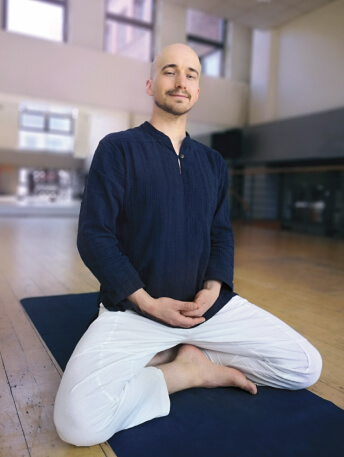
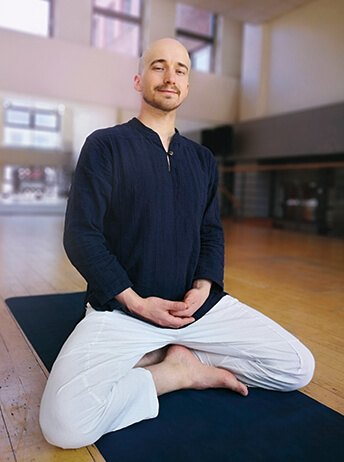
added responsive images / updated Imprint

diff --git a/index.html b/index.html
@@ -10,7 +10,7 @@
 		<div class="wrapper">
 			<h1>Daniel Krott</h1>
 			<h2>Personal Yoga Trainer</h2>
-			<img class="img-daniel" src="./images/dk.jpg" alt="Mann im Lotussitz lächelt in die Kamera" />
+			<img class="img-daniel" srcset="./images/dk.jpg, ./images/dk_2x.jpg 2x" src="./images/dk_2x.jpg" alt="Mann im Lotussitz lächelt in die Kamera" />
 			<h3>
 				Sie möchten gerne Yoga Unterricht nehmen, <br />
 				aber nicht in einer Gruppe üben?
@@ -24,15 +24,17 @@
 				<p><a href="mailto:daniel@definite-yoga.koeln">daniel@definite-yoga.koeln</a></p>
 				<div style="margin-top: 4px; font-weight: 400"><a href="./impressum.html">Impressum</a> | <a href="./datenschutz.html">Datenschutz</a></div>
 			</div>
-			<img class="img-el" src="./images/el.svg" alt="" />
+			<img class="img-el" src="./images/el.svg" alt="Sri Yantra" />
 		</div>
 		<!-- +++++++++++++++++++++++++++++++++++++++
     DESKTOP
     +++++++++++++++++++++++++++++++++++++++ -->
 
 		<div class="wrapper-desktop">
-			<img class="img-daniel" src="./images/dk.jpg" alt="Mann im Lotussitz lächelt in die Kamera" />
-			<img class="img-el" src="./images/el.svg" alt="" />
+			<!-- <img class="img-daniel" src="./images/dk.jpg" alt="Mann im Lotussitz lächelt in die Kamera" /> -->
+			<img class="img-daniel" srcset="./images/dk.jpg, ./images/dk_2x.jpg 2x" src="./images/dk_2x.jpg" alt="Mann im Lotussitz lächelt in die Kamera" />
+
+			<img class="img-el" src="./images/el.svg" alt="Sri Yantra" />
 			<div class="text">
 				<div class="head">
 					<h1>Daniel Krott</h1>

diff --git a/impressum.html b/impressum.html
@@ -10,12 +10,12 @@
 		<div class="wrapper-imprint">
 			<h1>Impressum</h1>
 			<p style="margin: 20px 0">Angaben gemäß § 5 TMG:</p>
-			<p>Daniel Krott</p>
+			<p style="font-size: 20px; font-weight: 600">Daniel Krott</p>
 			<p>Bernhardstraße 12</p>
 			<p>50968 Köln</p>
-			<p style="margin-top: 10px">0176 / 6486-7925</p>
-			<p>daniel@definite-yoga.koeln</p>
-			<a style="margin-top: 30px" href="javascript:history.back()">Zurück</a>
+			<p style="font-size: 16px; margin-top: 12px" style="margin-top: 10px">0176 / 6486-7925</p>
+			<a href="mailto:daniel@definite-yoga.koeln">daniel@definite-yoga.koeln</a>
+			<a style="margin-top: 30px" href="./index.html">Zurück</a>
 		</div>
 	</body>
 </html>

diff --git a/styles.css b/styles.css
@@ -68,6 +68,7 @@ p {
 	margin-top: 20px;
 	margin-bottom: 30px;
 	border-radius: 10%;
+	width: 344px;
 	box-shadow: 1.1px 0.9px 0.6px rgba(0, 0, 0, 0.022), 2.6px 2.1px 1.5px rgba(0, 0, 0, 0.032), 4.9px 4px 2.9px rgba(0, 0, 0, 0.04),
 		8.7px 7.1px 5.1px rgba(0, 0, 0, 0.048), 16.3px 13.4px 9.6px rgba(0, 0, 0, 0.058), 39px 32px 23px rgba(0, 0, 0, 0.08);
 }

diff --git a/datenschutz.html b/datenschutz.html
@@ -240,7 +240,7 @@
 						unber&uuml;hrt.
 					</p>
 					<p>Quelle: <a class="underline hover:opacity-60" href="https://www.e-recht24.de">https://www.e-recht24.de</a></p>
-					<a style="margin-top: 30px" href="javascript:history.back()">Zurück</a>
+					<a style="margin-top: 30px" href="./index.html">Zurück</a>
 				</div>
 			</div>
 		</div>
